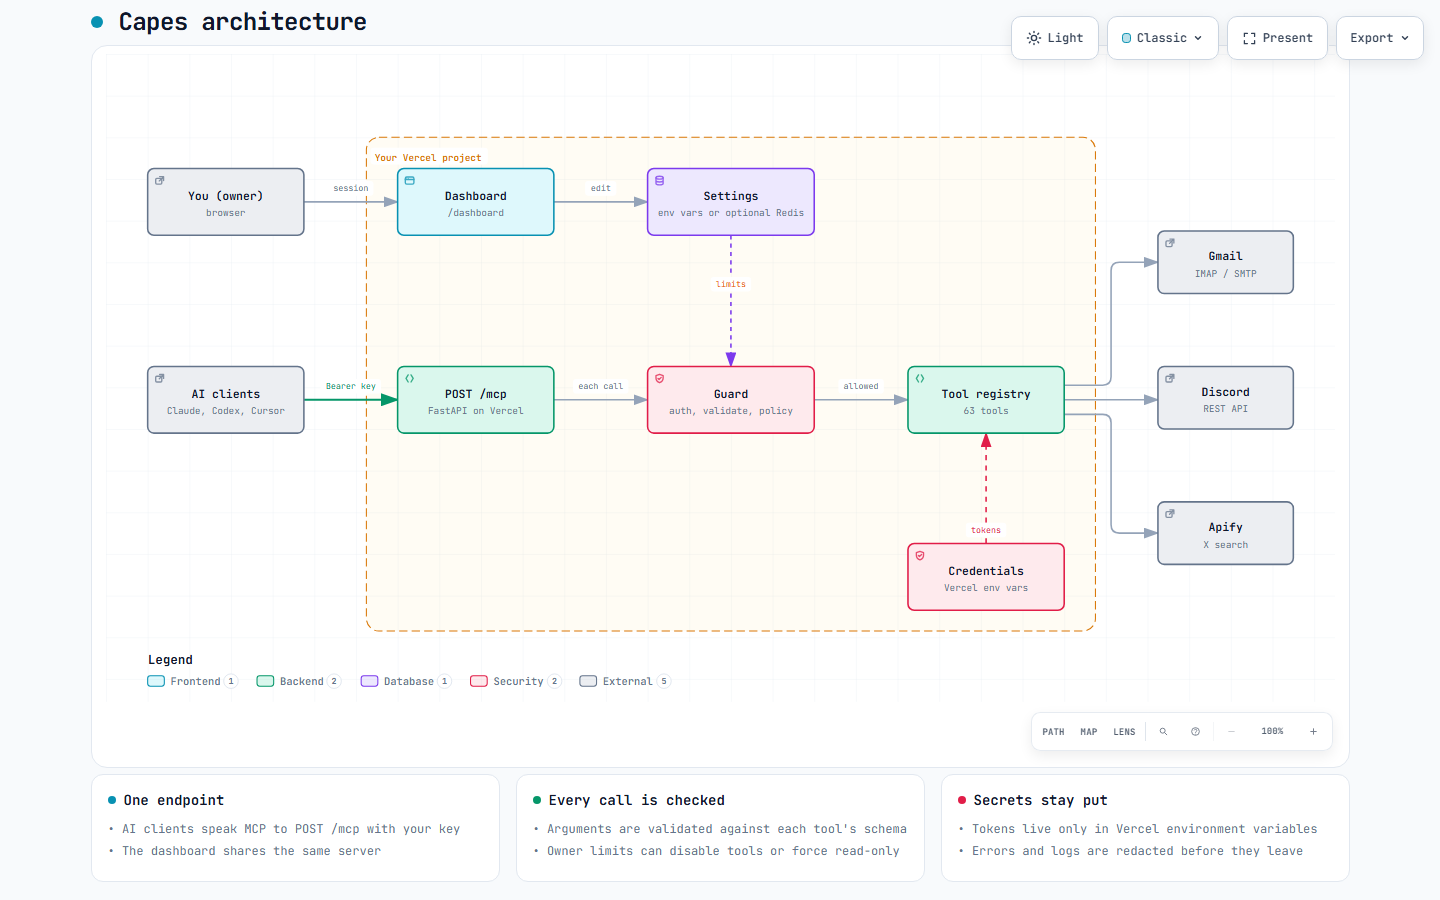
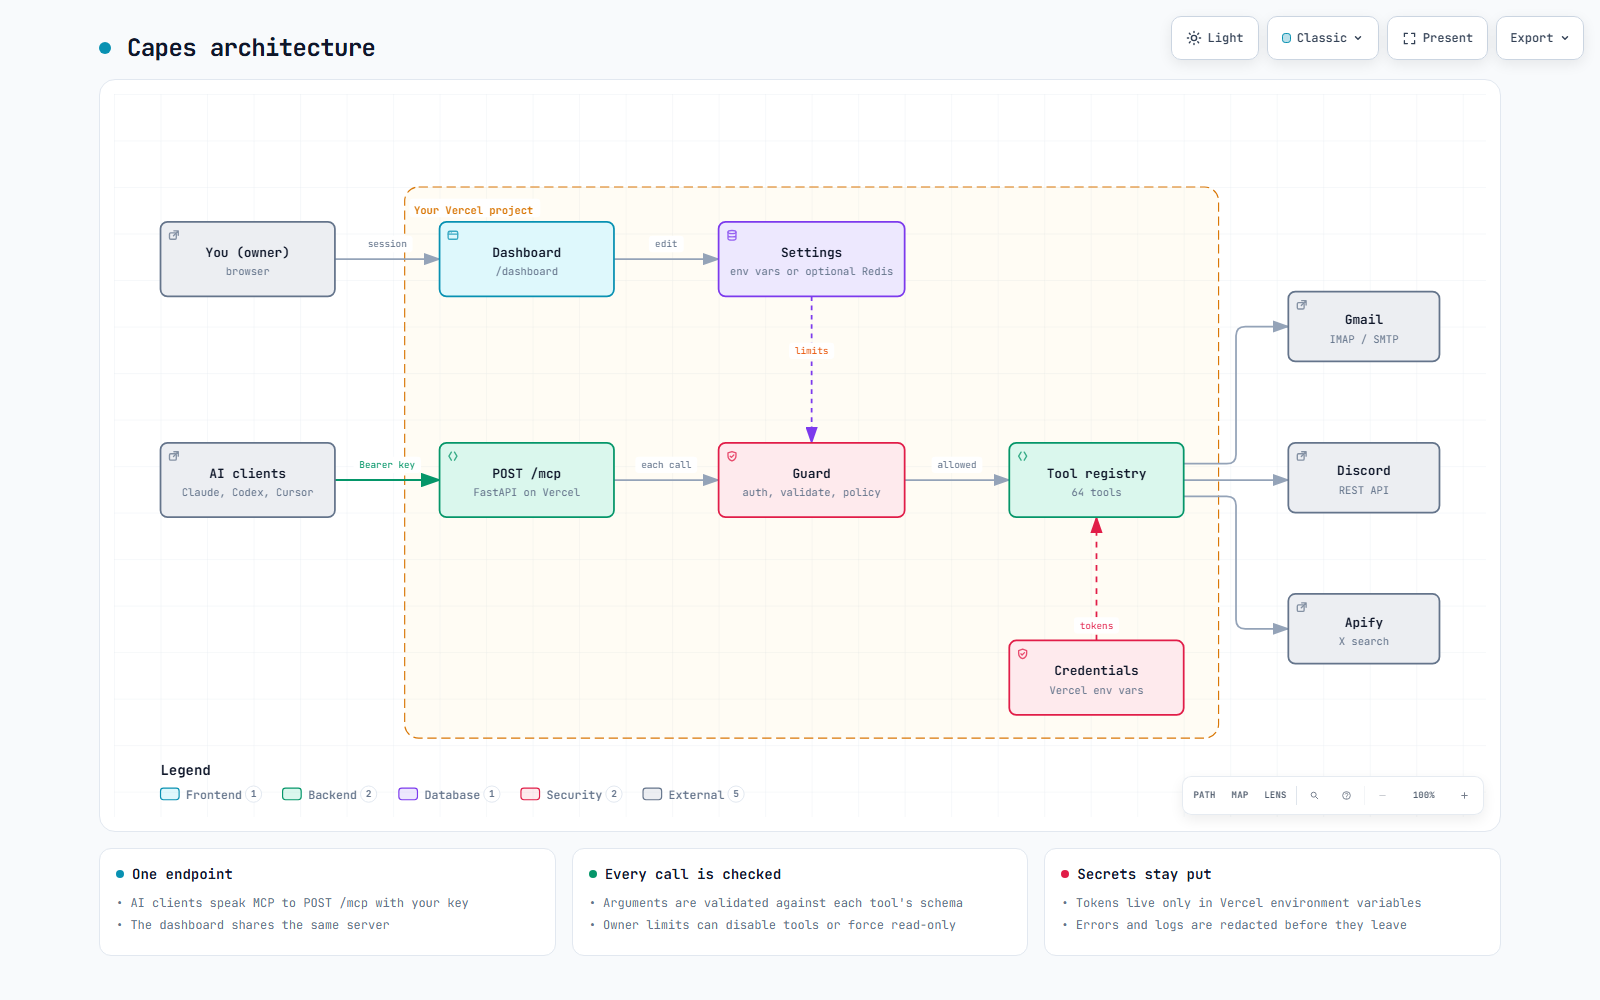
Add read-only Discord scheduled event listing (#26)

diff --git a/docs/diagrams/architecture.html b/docs/diagrams/architecture.html
@@ -5245,15 +5245,15 @@ OTHER DEALINGS IN THE FONT SOFTWARE.
         <text data-detail="context" x="600" y="156" class="t-muted" font-size="9" text-anchor="middle">env vars or optional Redis</text>
         </g>
 
-        <g id="node-tools" data-node-id="tools" data-node-label="Tool registry" tabindex="0" role="button" aria-label="Focus Tool registry, 63 tools, Your Vercel project" aria-pressed="false" data-node-kind="backend" data-node-sublabel="63 tools" data-node-context="Your Vercel project">
-          <title>Tool registry · 63 tools · Your Vercel project</title>
+        <g id="node-tools" data-node-id="tools" data-node-label="Tool registry" tabindex="0" role="button" aria-label="Focus Tool registry, 64 tools, Your Vercel project" aria-pressed="false" data-node-kind="backend" data-node-sublabel="64 tools" data-node-context="Your Vercel project">
+          <title>Tool registry · 64 tools · Your Vercel project</title>
           <rect x="770" y="300" width="150" height="64" rx="6" class="c-mask"/>
           <rect x="770" y="300" width="150" height="64" rx="6" class="c-backend" stroke-width="1.5"/>
           <g aria-hidden="true" data-semantic-sigil="backend" class="semantic-sigil s-backend" transform="translate(776 306) scale(0.6875)">
             <path d="M6 3 3 8l3 5M10 3l3 5-3 5"/>
           </g>
           <text data-node-label="" data-detail-anchor="" x="845" y="330" class="t-primary" font-size="11" font-weight="600" text-anchor="middle">Tool registry</text>
-        <text data-detail="context" x="845" y="346" class="t-muted" font-size="9" text-anchor="middle">63 tools</text>
+        <text data-detail="context" x="845" y="346" class="t-muted" font-size="9" text-anchor="middle">64 tools</text>
         </g>
 
         <g id="node-secrets" data-node-id="secrets" data-node-label="Credentials" tabindex="0" role="button" aria-label="Focus Credentials, Vercel env vars, Your Vercel project" aria-pressed="false" data-node-kind="security" data-node-sublabel="Vercel env vars" data-node-context="Your Vercel project">

diff --git a/tests/discord_offline.py b/tests/discord_offline.py
@@ -88,6 +88,34 @@ def respond(method: str, path: str, query: dict, body):
                 {"id": "500000000000000002", "name": "hello"},
             ],
         ),
+        ("GET", r"/guilds/600000000000000001/scheduled-events", lambda: []),
+        (
+            "GET",
+            r"/guilds/\d+/scheduled-events",
+            lambda: [
+                {
+                    "id": "500000000000000001",
+                    "name": "Voice meetup",
+                    "scheduled_start_time": "2026-10-01T10:00:00Z",
+                    "scheduled_end_time": None,
+                    "channel_id": "100000000000000001",
+                    "entity_metadata": None,
+                    "status": 1,
+                    "user_count": 0,
+                    "creator": {"username": "private"},
+                },
+                {
+                    "id": "500000000000000002",
+                    "name": "External meetup",
+                    "scheduled_start_time": "2026-10-02T10:00:00Z",
+                    "scheduled_end_time": "2026-10-02T11:00:00Z",
+                    "channel_id": None,
+                    "entity_metadata": {"location": "Community hall"},
+                    "status": 2,
+                    "user_count": 12,
+                },
+            ],
+        ),
         ("GET", r"/users/@me", lambda: {"id": "111111111111111111", "username": "pulsebot"}),
         ("POST", r"/users/@me/channels", lambda: {"id": "800000000000000001", "type": 1}),
         ("GET", r"/users/@me/guilds", lambda: [{"id": "200000000000000001", "name": "G"}]),
@@ -192,6 +220,38 @@ check("empty emoji list", ok and r == [])
 for arguments in ({}, {"guild_id": "../bad"}, {"guild_id": True}):
     ok, r, reqs = tool("discord_list_emojis", **arguments)
     check("invalid emoji guild ID makes no request", not ok and not reqs)
+
+ok, r, reqs = tool("discord_list_scheduled_events", guild_id=G)
+check(
+    "scheduled events return compact channel and external event fields",
+    ok
+    and r
+    == [
+        {"id": R, "name": "Voice meetup", "scheduled_start_time": "2026-10-01T10:00:00Z", "channel_id": C, "status": "scheduled", "user_count": 0},
+        {
+            "id": "500000000000000002",
+            "name": "External meetup",
+            "scheduled_start_time": "2026-10-02T10:00:00Z",
+            "scheduled_end_time": "2026-10-02T11:00:00Z",
+            "location": "Community hall",
+            "status": "active",
+            "user_count": 12,
+        },
+    ],
+)
+check(
+    "scheduled events request interested counts with no payload",
+    len(reqs) == 1
+    and reqs[0]["method"] == "GET"
+    and reqs[0]["path"] == f"/guilds/{G}/scheduled-events"
+    and reqs[0]["json"] is None
+    and reqs[0]["query"] == {"with_user_count": "true"},
+)
+ok, r, reqs = tool("discord_list_scheduled_events", guild_id="600000000000000001")
+check("empty scheduled events", ok and r == [])
+for arguments in ({}, {"guild_id": "../bad"}, {"guild_id": True}):
+    ok, r, reqs = tool("discord_list_scheduled_events", **arguments)
+    check("invalid scheduled event guild ID makes no request", not ok and not reqs)
 
 # ================================================================ transport behaviour
 ok, r, reqs = tool("discord_get_message", channel_id=C, message_id=M)

diff --git a/pulse/discord.py b/pulse/discord.py
@@ -403,6 +403,33 @@ async def list_emojis(args):
     return [{"id": e["id"], "name": e["name"], "animated": e.get("animated", False), "reaction": f"{e['name']}:{e['id']}"} for e in emojis]
 
 
+@tool(
+    "discord_list_scheduled_events",
+    "List a server's scheduled events with times, channel or external location, status and interested user count. The bot must have access to the server.",
+    {"guild_id": GUILD},
+    ["guild_id"],
+    hint="read",
+)
+async def list_scheduled_events(args):
+    events = await call("GET", f"/guilds/{args['guild_id']}/scheduled-events", params={"with_user_count": "true"})
+    statuses = {1: "scheduled", 2: "active", 3: "completed", 4: "canceled"}
+    return [
+        clean(
+            {
+                "id": event["id"],
+                "name": event["name"],
+                "scheduled_start_time": event["scheduled_start_time"],
+                "scheduled_end_time": event.get("scheduled_end_time"),
+                "channel_id": event.get("channel_id"),
+                "location": (event.get("entity_metadata") or {}).get("location"),
+                "status": statuses.get(event["status"], event["status"]),
+                "user_count": event.get("user_count"),
+            }
+        )
+        for event in events
+    ]
+
+
 @tool("discord_list_roles", "List a server's roles with their permissions.", {"guild_id": GUILD}, ["guild_id"])
 async def list_roles(args):
     roles = await call("GET", f"/guilds/{args['guild_id']}/roles")

diff --git a/README.md b/README.md
@@ -6,7 +6,7 @@
 
 ### Give Claude, Codex, Cursor and any MCP client hands: your Gmail, Discord and X, through one private server you own.
 
-[![CI](https://github.com/Dipeshpal/capes/actions/workflows/ci.yml/badge.svg?branch=main)](https://github.com/Dipeshpal/capes/actions/workflows/ci.yml) [![License: MIT](https://img.shields.io/badge/license-MIT-blue.svg)](LICENSE) ![Tools](https://img.shields.io/badge/tools-63-7c3aed) ![Database](https://img.shields.io/badge/database-none%20needed-2ea44f) ![Runs on](https://img.shields.io/badge/runs%20on-Vercel%20free%20tier-000000?logo=vercel&logoColor=white) ![MCP](https://img.shields.io/badge/protocol-MCP-e0459b) [![Stars](https://img.shields.io/github/stars/Dipeshpal/capes?style=social)](https://github.com/Dipeshpal/capes)
+[![CI](https://github.com/Dipeshpal/capes/actions/workflows/ci.yml/badge.svg?branch=main)](https://github.com/Dipeshpal/capes/actions/workflows/ci.yml) [![License: MIT](https://img.shields.io/badge/license-MIT-blue.svg)](LICENSE) ![Tools](https://img.shields.io/badge/tools-64-7c3aed) ![Database](https://img.shields.io/badge/database-none%20needed-2ea44f) ![Runs on](https://img.shields.io/badge/runs%20on-Vercel%20free%20tier-000000?logo=vercel&logoColor=white) ![MCP](https://img.shields.io/badge/protocol-MCP-e0459b) [![Stars](https://img.shields.io/github/stars/Dipeshpal/capes?style=social)](https://github.com/Dipeshpal/capes)
 
 [![Deploy with Vercel](https://vercel.com/button)](https://vercel.com/new/clone?repository-url=https%3A%2F%2Fgithub.com%2FDipeshpal%2Fcapes&env=MCP_API_KEY,DISCORD_BOT_TOKEN,APIFY_TOKEN,GMAIL_ADDRESS,GMAIL_APP_PASSWORD&envDescription=MCP_API_KEY%20is%20any%20long%20random%20string%20you%20make%20up%20(24%2B%20characters).%20All%20the%20others%20are%20optional.&envLink=https%3A%2F%2Fgithub.com%2FDipeshpal%2Fcapes%2Fblob%2Fmain%2Fdocs%2Fsetup%2Fvercel.md&project-name=capes&repository-name=capes)
 
@@ -27,7 +27,7 @@
     <td align="right"><b>⚙ Reference</b></td>
     <td align="center"><a href="#-services-and-credentials">Services</a></td>
     <td align="center"><a href="#-the-dashboard">Dashboard</a></td>
-    <td align="center"><a href="#-tools">All 63 tools</a></td>
+    <td align="center"><a href="#-tools">All 64 tools</a></td>
   </tr>
   <tr>
     <td align="right"><b>💬 Community</b></td>
@@ -64,7 +64,7 @@ AI assistants read, summarise and act well, but your real work lives in accounts
 | | What it does |
 |---|---|
 | 📧 **Gmail** (17 tools) | Search with Gmail syntax, read, send, reply, forward, drafts, labels, archive, trash. No Google Cloud project, just an app password. |
-| 💬 **Discord** (45 tools) | Read and post, edit, delete, react, threads, forums, polls, files, webhooks, channels, roles, permissions, moderation, audit log. |
+| 💬 **Discord** (46 tools) | Read and post, edit, delete, react, threads, forums, polls, files, webhooks, channels, roles, permissions, moderation, audit log. |
 | 🐦 **X / Twitter** (1 tool) | Search tweets through an Apify scraper. |
 | 🖥 **Dashboard** | Test each service's credentials, browse and try the tools, watch recent activity, copy ready-made client config. |
 | 🛡 **Limits you control** | Turn a service or a single tool off, or make the whole server read-only. Tools are labelled read, write or destructive. |
@@ -230,7 +230,7 @@ Sending mail and messages cannot be undone, so ask for a draft first when it mat
 
 ## 🧰 Tools
 
-63 tools. The lists below are the quick view; [docs/usage/tools.md](docs/usage/tools.md) is the generated reference with every tool's description, kind and arguments.
+64 tools. The lists below are the quick view; [docs/usage/tools.md](docs/usage/tools.md) is the generated reference with every tool's description, kind and arguments.
 
 <details>
 <summary><b>📧 Gmail (17)</b></summary>
@@ -240,9 +240,9 @@ Sending mail and messages cannot be undone, so ask for a draft first when it mat
 </details>
 
 <details>
-<summary><b>💬 Discord (45)</b></summary>
+<summary><b>💬 Discord (46)</b></summary>
 
-**Read**: `discord_list_guilds`, `discord_get_guild`, `discord_list_channels`, `discord_get_channel` (with permission overwrites), `discord_read_channel`, `discord_get_message`, `discord_list_pins`, `discord_list_reactions`, `discord_list_members` (search too), `discord_list_roles`, `discord_list_emojis`, `discord_list_threads`, `discord_list_invites`, `discord_get_audit_log`, `discord_read_dm`
+**Read**: `discord_list_guilds`, `discord_get_guild`, `discord_list_channels`, `discord_get_channel` (with permission overwrites), `discord_read_channel`, `discord_get_message`, `discord_list_pins`, `discord_list_reactions`, `discord_list_members` (search too), `discord_list_roles`, `discord_list_emojis`, `discord_list_scheduled_events`, `discord_list_threads`, `discord_list_invites`, `discord_get_audit_log`, `discord_read_dm`
 
 **Messages**: `discord_send_message` (text, embeds, replies), `discord_send_dm`, `discord_send_file` (base64 upload), `discord_create_poll`, `discord_edit_message`, `discord_delete_message`, `discord_bulk_delete_messages`, `discord_pin_message`, `discord_add_reaction`, `discord_remove_reaction`
 
@@ -272,7 +272,7 @@ Tools are flagged read, write or destructive so clients can ask before risky cal
 
 ## 🏁 What's built
 
-- [x] **63 tools across three services:** Gmail (17), Discord (45) and X search (1). The Discord toolkit covers messages, DMs, files, polls, threads, forums, webhooks, channels, roles, permissions, moderation, invites and the audit log.
+- [x] **64 tools across three services:** Gmail (17), Discord (46) and X search (1). The Discord toolkit covers messages, DMs, files, polls, threads, forums, webhooks, channels, roles, permissions, moderation, invites and the audit log.
 - [x] **Owner dashboard:** sign in with your key, test each connector, browse the tools, try read-only ones, watch activity, copy client config, and generate your Discord invite link in one click.
 - [x] **One-click deploy to your own Vercel** (Deploy button or one installer command), no database needed.
 - [x] **Works in Claude Desktop, Claude Code, Cursor and Codex** (and any client that speaks MCP over HTTP).

diff --git a/docs/usage/tools.md b/docs/usage/tools.md
@@ -1,6 +1,6 @@
 # Tool reference
 
-63 tools.
+64 tools.
 
 Generated from the code by `python scripts/gen_tools_doc.py`. Do not edit by hand; change the tool's description or schema in `pulse/` and regenerate.
 
@@ -44,6 +44,7 @@ Needs `DISCORD_BOT_TOKEN` and a bot invited with the right permissions. Setup: [
 | `discord_list_pins` | read | List pinned messages in a channel. | `channel_id*` |
 | `discord_list_members` | read | List server members, or search by name with `query`. Needs the 'Server Members Intent' enabled in the Discord Developer Portal (Bot tab). | `guild_id*`, `query`, `limit` |
 | `discord_list_emojis` | read | List a server's custom emojis, including the name:id value used by discord_add_reaction. The bot must have access to the server. | `guild_id*` |
+| `discord_list_scheduled_events` | read | List a server's scheduled events with times, channel or external location, status and interested user count. The bot must have access to the server. | `guild_id*` |
 | `discord_list_roles` | read | List a server's roles with their permissions. | `guild_id*` |
 | `discord_list_threads` | read | List active threads in a server, or archived public threads of one channel when channel_id is given. | `guild_id`, `channel_id` |
 | `discord_send_message` | write | Send a message to a channel or thread. Provide content and/or an embed. | `channel_id*`, `content`, `embed`, `reply_to_message_id`, `mentions` |

diff --git a/docs/setup/discord.md b/docs/setup/discord.md
@@ -113,3 +113,5 @@ These are Discord's rules, not limits of this project:
 | `401 Unauthorized` from Discord | The token is wrong or was reset. Copy the new one. |
 
 Use `discord_list_emojis` with a server ID to find its custom emoji names and IDs. The returned `reaction` value can be passed to `discord_add_reaction`; listing does not add a reaction.
+
+Use `discord_list_scheduled_events` with a server ID to read event times, status and interested counts. Channel events include a channel ID; external events include their location. This tool does not create, edit or join events.
